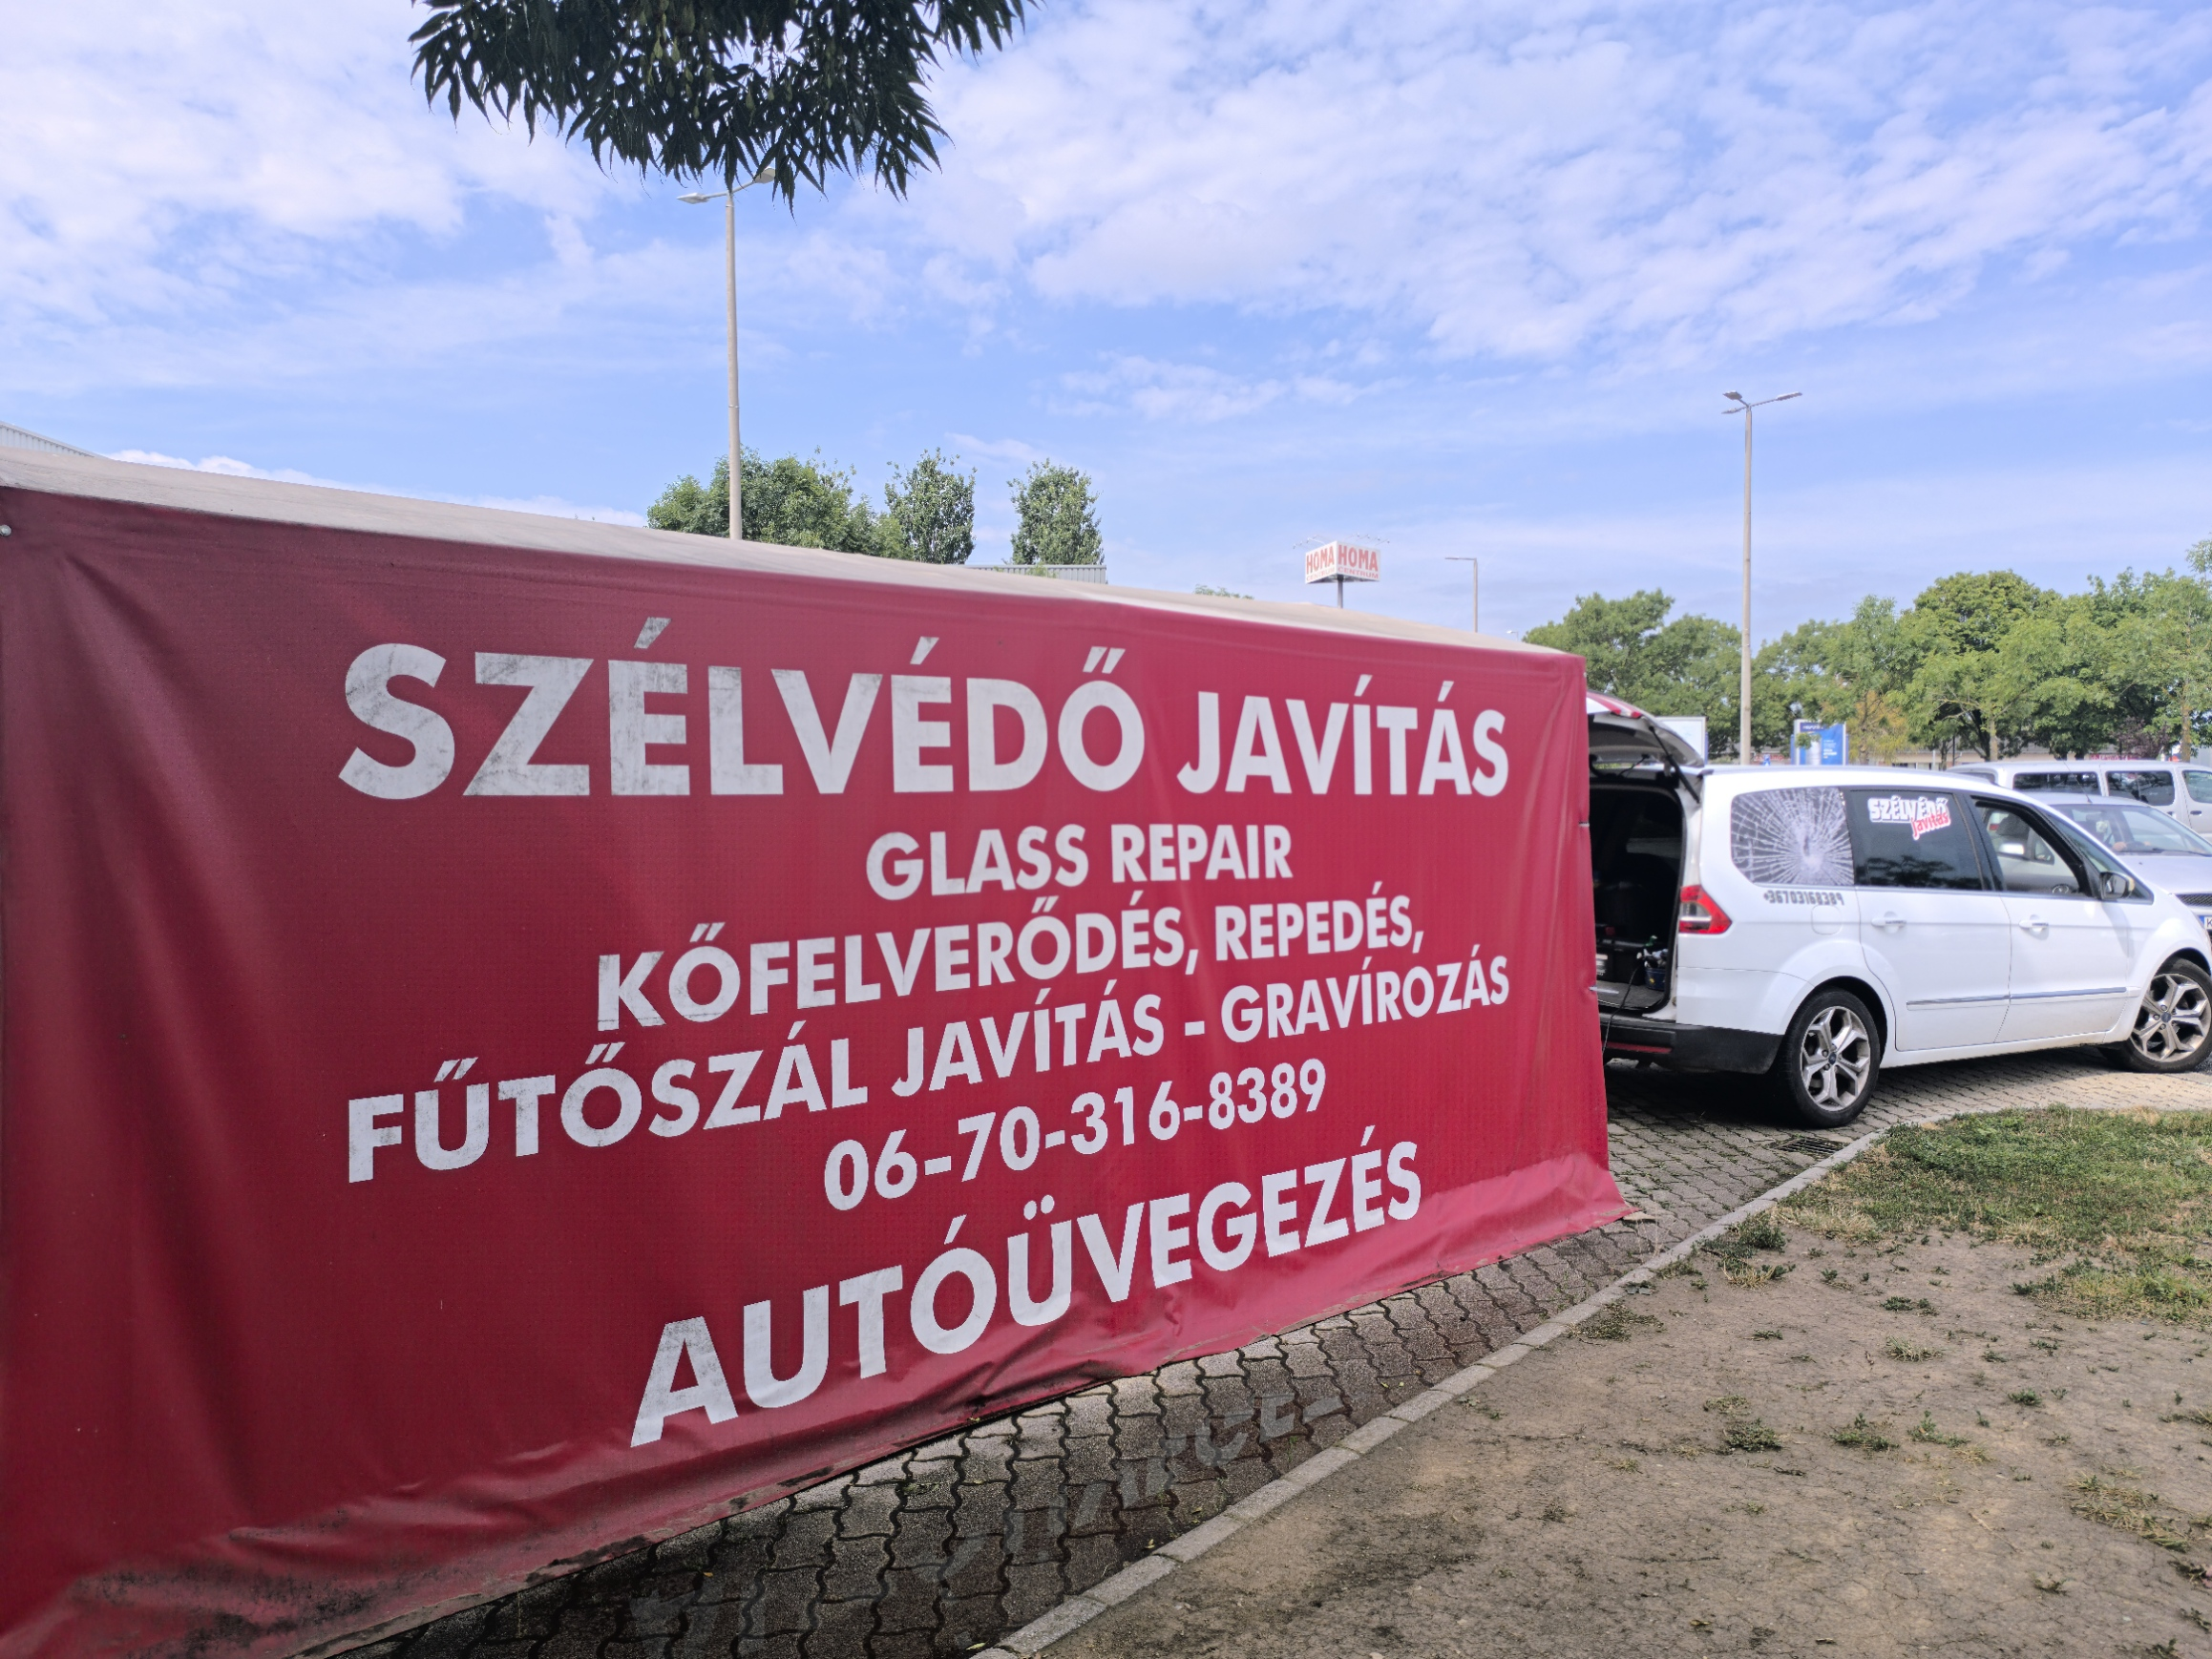
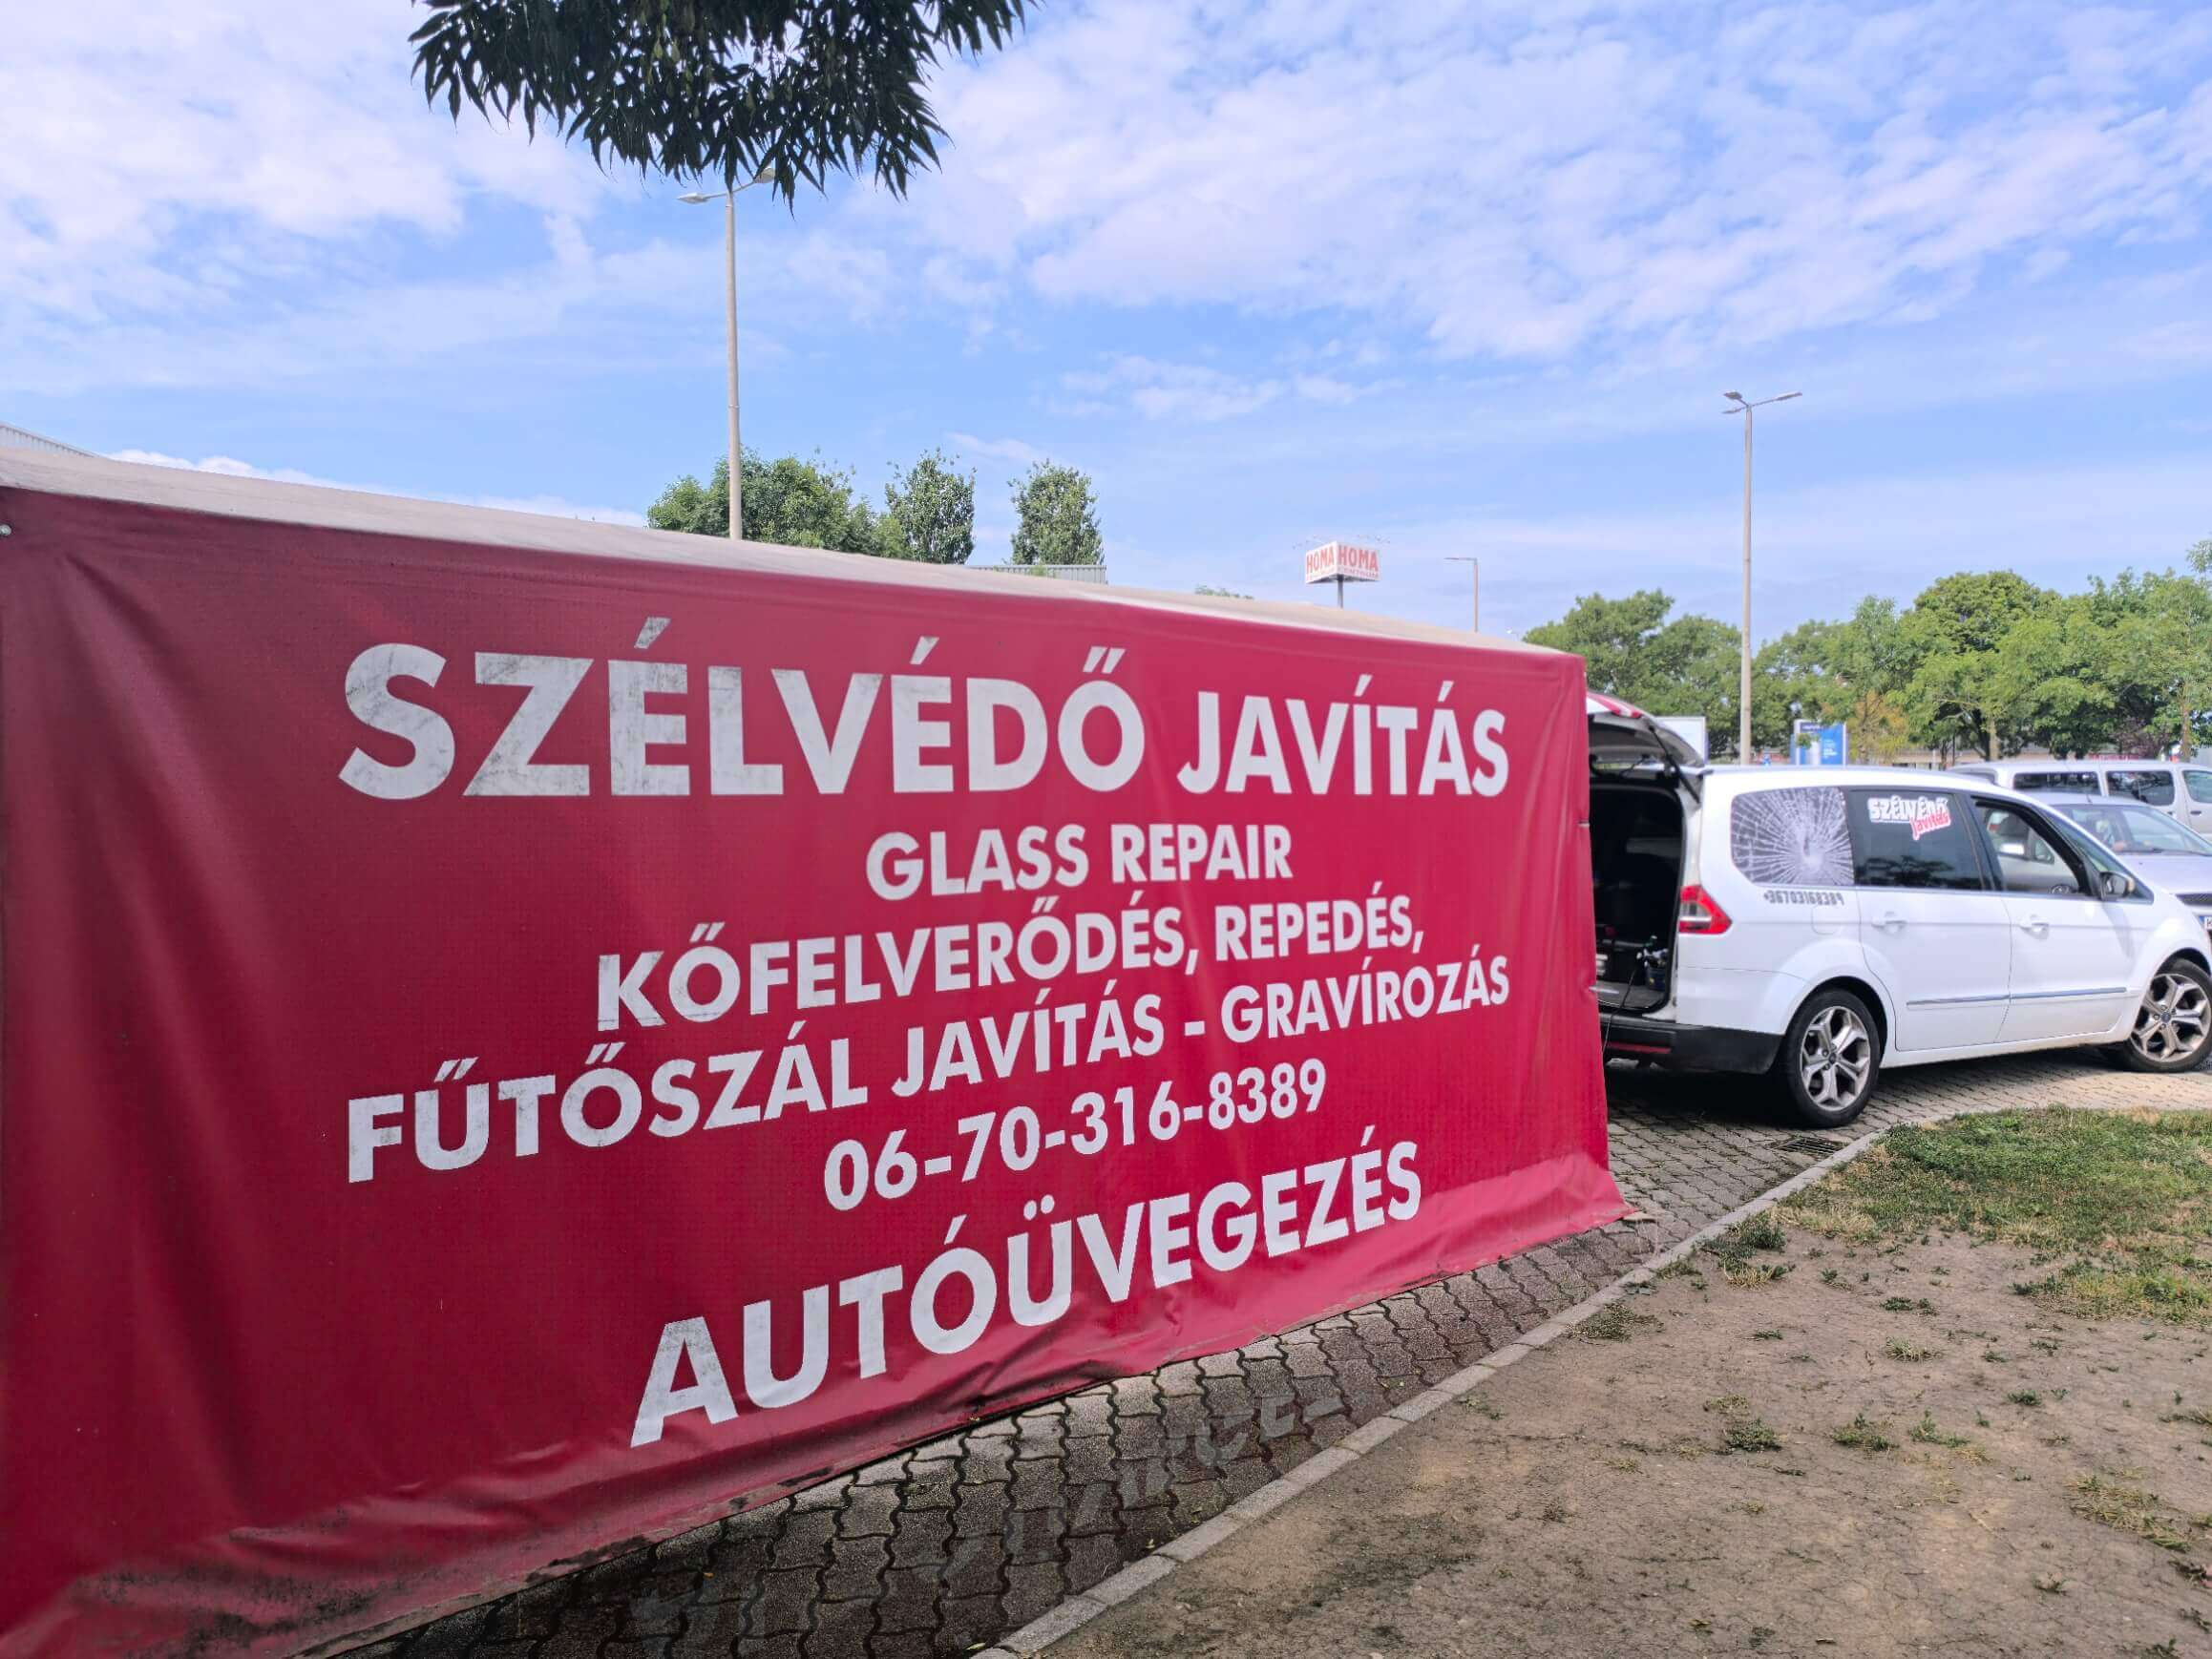
Update badge and workshop images for improved visual content

diff --git a/index.html b/index.html
@@ -34,7 +34,7 @@
       "priceRange": "Ár: 5.000 Ft-tól",
       "email": "[email redacted]",
       "sameAs": [
-        "https://www.google.com/maps?q=Kun+Péter+-+szélvédőjavítás+Szombathely,+Varasd+u.+2&output=embed"
+        "https://maps.app.goo.gl/FC2tko5TH2KqhPEF7"
       ],
       "address": {
         "@type": "PostalAddress",
@@ -67,7 +67,6 @@
     </script>
 </head>
 <body class="bg-surface text-on-surface font-body-md overflow-x-hidden">
-
     <!-- Header / TopNavBar -->
     <header class="w-full top-0 sticky z-50 bg-surface dark:bg-primary-container border-b border-outline-variant dark:border-outline shadow-sm dark:shadow-none h-20">
         <nav class="max-w-container-max mx-auto px-margin-mobile flex justify-between items-center h-full">
@@ -220,13 +219,11 @@
     <!-- Testimonials Section -->
     <section class="py-16 bg-surface" id="velemenyek">
         <div class="max-w-container-max mx-auto px-margin-mobile">
-            
-            <!-- Szekció fejléc és Arany Vállalkozás kártya -->
+            <!-- Szekció fejléc -->
             <div class="text-center mb-12">
                 <h2 class="font-display-lg text-headline-md text-primary mb-2">Ügyfeleink Véleménye</h2>
                 <div class="w-20 h-1 bg-secondary mx-auto mb-8"></div>
             </div>
-
             <!-- Google Maps Vélemények Grid -->
             <div class="grid grid-cols-1 md:grid-cols-3 gap-gutter mb-12">
                 <!-- 1. Vélemény -->
@@ -259,7 +256,6 @@
                         </div>
                     </div>
                 </div>
-
                 <!-- 2. Vélemény -->
                 <div class="bg-surface-container p-stack-md rounded-xl border border-outline-variant/30 flex flex-col justify-between relative overflow-hidden group hover:border-secondary transition-all duration-300">
                     <div class="absolute top-4 right-4 opacity-10 group-hover:opacity-20 transition-opacity">
@@ -289,7 +285,6 @@
                         </div>
                     </div>
                 </div>
-
                 <!-- 3. Vélemény -->
                 <div class="bg-surface-container p-stack-md rounded-xl border border-outline-variant/30 flex flex-col justify-between relative overflow-hidden group hover:border-secondary transition-all duration-300">
                     <div class="absolute top-4 right-4 opacity-10 group-hover:opacity-20 transition-opacity">
@@ -320,7 +315,6 @@
                     </div>
                 </div>
             </div>
-            
             <!-- Éves Díjak / Elismerések Szekció (A trust badge-ek helyén) -->
             <div class="mt-12 bg-[#1b252f] rounded-2xl p-6 md:p-8 border border-[#2e3b4a] shadow-lg flex flex-col md:flex-row items-center justify-between gap-6 max-w-4xl mx-auto">
                 <div class="text-center md:text-left space-y-2 max-w-md">
@@ -337,7 +331,6 @@
                     <img src="badge.webp" alt="Éves elismerések" class="max-h-[120px] object-contain rounded-lg">
                 </div>
             </div>
-
         </div>
     </section>
 
@@ -385,7 +378,7 @@
                             <h4 class="font-label-bold text-label-bold text-secondary mb-2">Címünk</h4>
                             <p class="font-body-lg text-body-lg text-primary flex items-center gap-base">
                                 <span class="material-symbols-outlined">location_on</span>
-                                9700 Szombathely, Varasd u. 2.
+                                <span><b>Szombathely nagy Tesco parkoló</b>, Varasd u. 2.</span>
                             </p>
                         </div>
                         <div class="mb-stack-md">
@@ -395,7 +388,7 @@
                             </p>
                         </div>
                     </div>
-                    <a class="mt-stack-md inline-flex items-center justify-center gap-base border-2 border-primary text-primary font-label-bold px-stack-md py-stack-sm rounded hover:bg-primary hover:text-on-primary transition-all" href="https://maps.google.com/?cid=4182092785702589987&g_mp=Cidnb29nbGUubWFwcy5wbGFjZXMudjEuUGxhY2VzLlNlYXJjaFRleHQ" target="_blank">
+                    <a class="mt-stack-md inline-flex items-center justify-center gap-base border-2 border-primary text-primary font-label-bold px-stack-md py-stack-sm rounded hover:bg-primary hover:text-on-primary transition-all" href="https://maps.google.com/?cid=4182092785702589987&g_mp=Cidnb29nbGUubWFwcy5wbGFjZXMudjEuUGxhY2VzLlNlYXJjaFRleHQ" target="_blank" rel="noopener noreferrer">
                         <span class="material-symbols-outlined">directions</span>
                         Útvonaltervezés
                     </a>
@@ -407,7 +400,9 @@
                         class="absolute top-0 left-0 w-full h-full border-0" 
                         allowfullscreen="" 
                         loading="lazy" 
-                        referrerpolicy="no-referrer-when-downgrade">
+                        referrerpolicy="strict-origin-when-cross-origin"
+                        alt="Google Maps - Kun Péter szélvédőjavítás Szombathely, Varasd u. 2."
+                        title="Google Maps - Kun Péter szélvédőjavítás Szombathely, Varasd u. 2.">
                     </iframe>
                 </div>
             </div>
@@ -448,14 +443,12 @@
                     Szakértő autóüveg javítás és szélvédő csere Szombathelyen. Precizitás és maximális biztonság az Ön kényelméért.
                 </p>
             </div>
-            
             <!-- 2. oszlop: Kapcsolat -->
             <div class="space-y-base">
                 <p class="font-label-bold text-label-bold">Kapcsolat</p>
                 <p class="font-body-md opacity-70">9700 Szombathely, Varasd u. 2.</p>
                 <p class="font-body-md text-secondary-container text-lg font-semibold">+36 70 316 8389</p>
             </div>
-
             <!-- 3. oszlop: Impresszum (Jogi kötelezettség) -->
             <div class="space-y-base md:max-w-xs">
                 <p class="font-label-bold text-label-bold">Impresszum</p>
@@ -467,7 +460,6 @@
                 </div>
             </div>
         </div>
-        
         <!-- Alsó sáv -->
         <div class="max-w-container-max mx-auto px-margin-mobile mt-stack-lg pt-stack-sm border-t border-outline/20 flex flex-col md:flex-row justify-between items-center gap-2">
             <p class="font-body-md text-body-md opacity-50 text-center md:text-left">© 2026 Kun Péter - Minden jog fenntartva.</p>